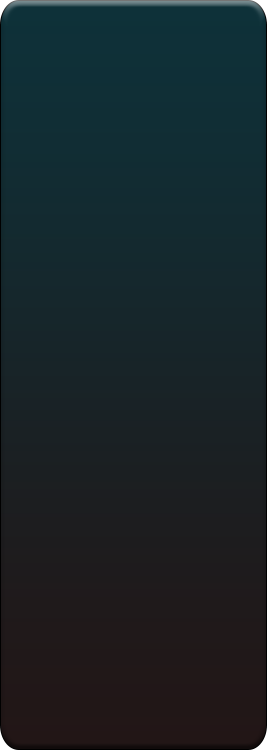
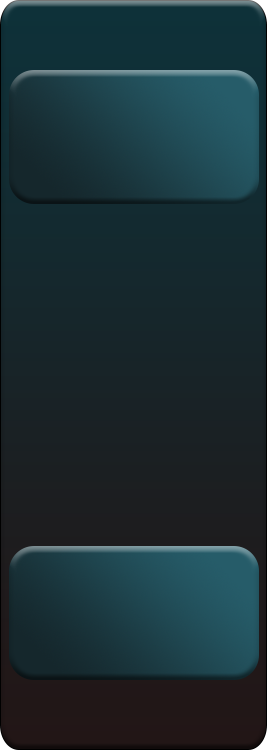
chanfe layouts for playerlabel, create method to menage players turns

Changed region(s): [[0.03, 0.7053, 0.9888, 0.92], [0.03, 0.092, 0.9888, 0.276], [0.1199, 0.2453, 0.2697, 0.276]]

diff --git a/style/styleSheet.scss b/style/styleSheet.scss
@@ -1,5 +1,5 @@
 $mainContainerBColor: rgba(63, 208, 27, 0);
-$labelPlayerBColor: rgba(233, 219, 219, 0);
+$labelPlayerBColor: rgba(73, 158, 211, 0.185);
 $checkerOUTContainerBColor: rgba(255, 255, 255, 0);
 $playersTextColor: rgb(255, 255, 255);
 $layoutCheckersBColor: rgba(51, 255, 0, 0);
@@ -32,33 +32,30 @@ QLabel {
     background-color: $mainContainerBColor;
     image: url($backgroundLeft-image)
 }
-#labelPlayer1 {
-    background-color: $labelPlayerBColor;
-    image: url($backgroundPlayer-image);
-    // margin: 70% 30% 12% 25%;
-
+#labelPlayer1 {    
     /*text edit*/
     color: $playersTextColor;
     font-weight: bold;
     font-size: 25px;
-    // padding-left: 25%;
+    
+    // spatierea dintre obiecte
+    margin: 60% 0% 45% 0%;
+    border-radius: 25%;
 }
 #diceContainer{
-    background-color: $labelPlayerBColor;
+    // background-color: $labelPlayerBColor;
     image: url($backgroundDice-image)
-
     // margin: 15% 30% 12% 25%;
 }
 #labelPlayer2 {
-    background-color: $labelPlayerBColor;
-    image: url($backgroundPlayer-image);
-    // margin: 70% 30% 12% 25%;
-
     /*text edit*/
     color: $playersTextColor;
     font-weight: bold;
     font-size: 25px;
-    // padding-left: 25%;
+    
+    // spatierea dintre obiecte
+    margin: 45% 0% 60% 0%;
+    border-radius: 25%;
 }
 ////////////// MIJLOUL FERESTREI /////////////////
 #middleContainer{

diff --git a/style/styleSheet.css b/style/styleSheet.css
@@ -15,26 +15,25 @@ QLabel {
 }
 
 #labelPlayer1 {
-  background-color: rgba(233, 219, 219, 0);
-  image: url("images/playerNameLayout.png");
   /*text edit*/
   color: rgb(255, 255, 255);
   font-weight: bold;
   font-size: 25px;
+  margin: 60% 0% 45% 0%;
+  border-radius: 25%;
 }
 
 #diceContainer {
-  background-color: rgba(233, 219, 219, 0);
   image: url("images/diceLayoutBackground.png");
 }
 
 #labelPlayer2 {
-  background-color: rgba(233, 219, 219, 0);
-  image: url("images/playerNameLayout.png");
   /*text edit*/
   color: rgb(255, 255, 255);
   font-weight: bold;
   font-size: 25px;
+  margin: 45% 0% 60% 0%;
+  border-radius: 25%;
 }
 
 #middleContainer {

diff --git a/gameLogic.py b/gameLogic.py
@@ -24,6 +24,7 @@ class GameLogic():
         """
     # TODO: TASK:
     # - imlementarea jogicii jocului, astfel ca jucatorii sa poata accesa piesele pe rand
+    # 
     def __init__(self):
         print("initializare gameLogic...")
         # folosit pentru a stoca zarurile generate in functia roll din RollFunctionalities
@@ -68,7 +69,6 @@ class GameLogic():
         dice.setScaledContents(True)
         return dice
 
-
     def roll(self, diceLayout) -> list:
         """Functia care genereaza cu randint cele 2 zaruri care sunt salvate in self.dices.\n
         Pe langa generarea zarurilor, functia are rolul de a afisa grafic zarurile generate.\n
@@ -106,7 +106,48 @@ class GameLogic():
         self.checkersDisponibility(team = "black", disponibility = False)
         self.checkersDisponibility(team = "white", disponibility = True)
 
+        self.stylePlayerTurn()
+
         print("A iesit din functia logic")
+
+    def stylePlayerTurn(self) -> None:
+        highlightColor = "rgba(67, 200, 176, 0.8)"
+        turnStylePlayerWhite = f"""
+    background-color:  {highlightColor};
+    color: white;
+    font-weight: bold;
+    font-size: 25px;
+    margin: 60% 0% 45% 0%;
+    border-radius: 25%;"""
+        
+        defaultTurnStylePlayerWhite = """
+    color: white;
+    font-weight: bold;
+    font-size: 25px;
+    margin: 60% 0% 45% 0%;
+    border-radius: 25%;"""
+        
+        turnStylePlayerBlack = f"""
+    background-color:  {highlightColor};
+    color: white;
+    font-weight: bold;
+    font-size: 25px;
+    margin: 45% 0% 60% 0%;
+    border-radius: 25%;"""
+        
+        defaultTurnStylePlayerBlack = """
+    color: white;
+    font-weight: bold;
+    font-size: 25px;
+    margin: 45% 0% 60% 0%;
+    border-radius: 25%;"""
+        
+        if self.teamTurn == "white":
+            self.layouts.labelPlayerWhite.setStyleSheet(turnStylePlayerWhite)
+            self.layouts.labelPlayerBlack.setStyleSheet(defaultTurnStylePlayerBlack)
+        else:
+            self.layouts.labelPlayerBlack.setStyleSheet(turnStylePlayerBlack)
+            self.layouts.labelPlayerWhite.setStyleSheet(defaultTurnStylePlayerWhite)
 
     # functii pentru adaugarea de piese in layout-uri
     def addOutCheker(self, team) -> None:
@@ -249,7 +290,7 @@ class GameLogic():
             if count > 0:
                 for index in range(count):
                     checker = pos.itemAt(index).widget()
-                    if checker.getTeam() == team:
+                    if checker.objectName() == f'{team}Checker':
                         checker.setEnabled(disponibility)
                         checker.setHover(disponibility)
                         index -= 1

diff --git a/main.py b/main.py
@@ -16,9 +16,9 @@ class UInterface(QMainWindow):
     def initGUI(self):
         self.width = 1366
         self.height = 768
-        # self.setGeometry(0, 0, self.width, self.height)
+        self.setGeometry(0, 0, self.width, self.height)
         # self.showFullScreen()
-        self.setFixedSize(self.width, self.height)
+        # self.setFixedSize(self.width, self.height)
 
         # folosit pentru a grupa cele trei containere principala ale ferestrei intr-un mod de afisare orizolntala
         parentLayout = QHBoxLayout()
@@ -32,7 +32,7 @@ class UInterface(QMainWindow):
 
         # folosit pentru a aduna containerele intr un singur loc pentru a putea fi gestionate
         parentLayout.addWidget(leftLayoutContainer, 20)
-        parentLayout.addWidget(middleLayoutContainer, 70)
+        parentLayout.addWidget(middleLayoutContainer, 70)   
         parentLayout.addWidget(rightLayoutContainer, 10)
 
         # centrarea layout ului parinte in centrul ferestrei

diff --git a/layouts.py b/layouts.py
@@ -241,9 +241,11 @@ class UILayouts():
 
         # adaugarea de elemente in fiecare container
         # adaugarea elementelor din stanga
-        leftLayout.addWidget(QLabel("Player1", objectName = "labelPlayer1"))
+        self.labelPlayerWhite = QLabel("Player1", objectName = "labelPlayer1")
+        leftLayout.addWidget(self.labelPlayerWhite)
         leftLayout.addWidget(diceContainer)
-        leftLayout.addWidget(QLabel("Player2", objectName = "labelPlayer2"))
+        self.labelPlayerBlack = QLabel("Player2", objectName = "labelPlayer2")
+        leftLayout.addWidget(self.labelPlayerBlack)
 
         # QTimer.singleShot(0, lambda: print(f"leftContainer: {leftContainer.size()}"))
         return leftContainer

diff --git a/checkers.py b/checkers.py
@@ -36,9 +36,6 @@ class Checkers(QPushButton):
         self.clicked.connect(self.click)
 
     # functii setter si getter
-    def getTeam(self) -> str:
-        return self.team
-    
     def setHover(self, bool) -> None:
         self.isHoverEnable = bool
     
